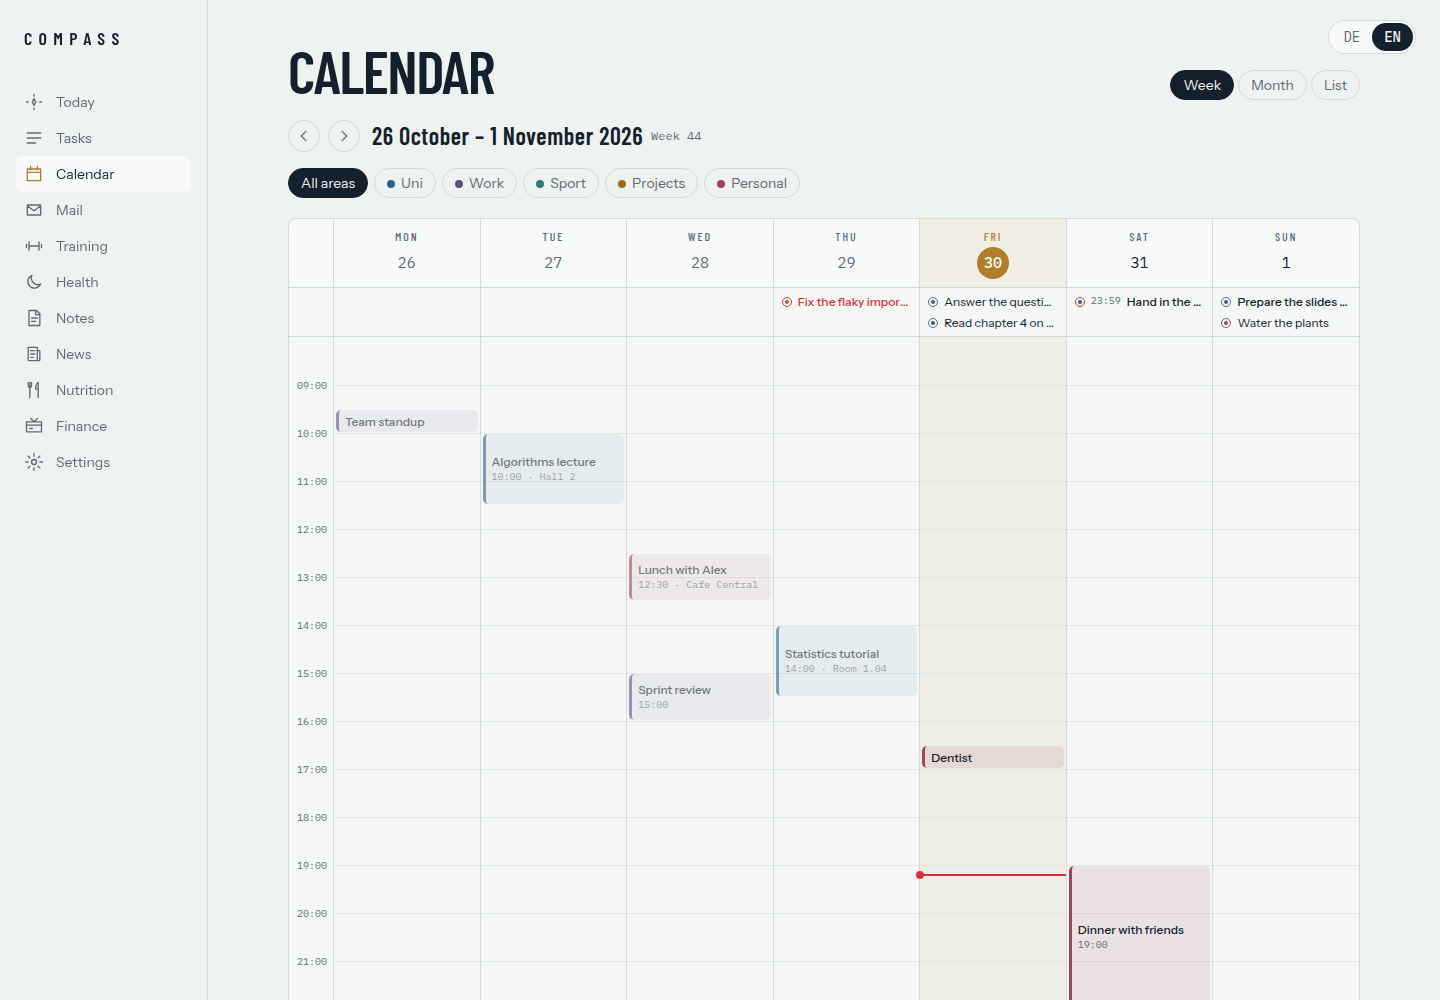
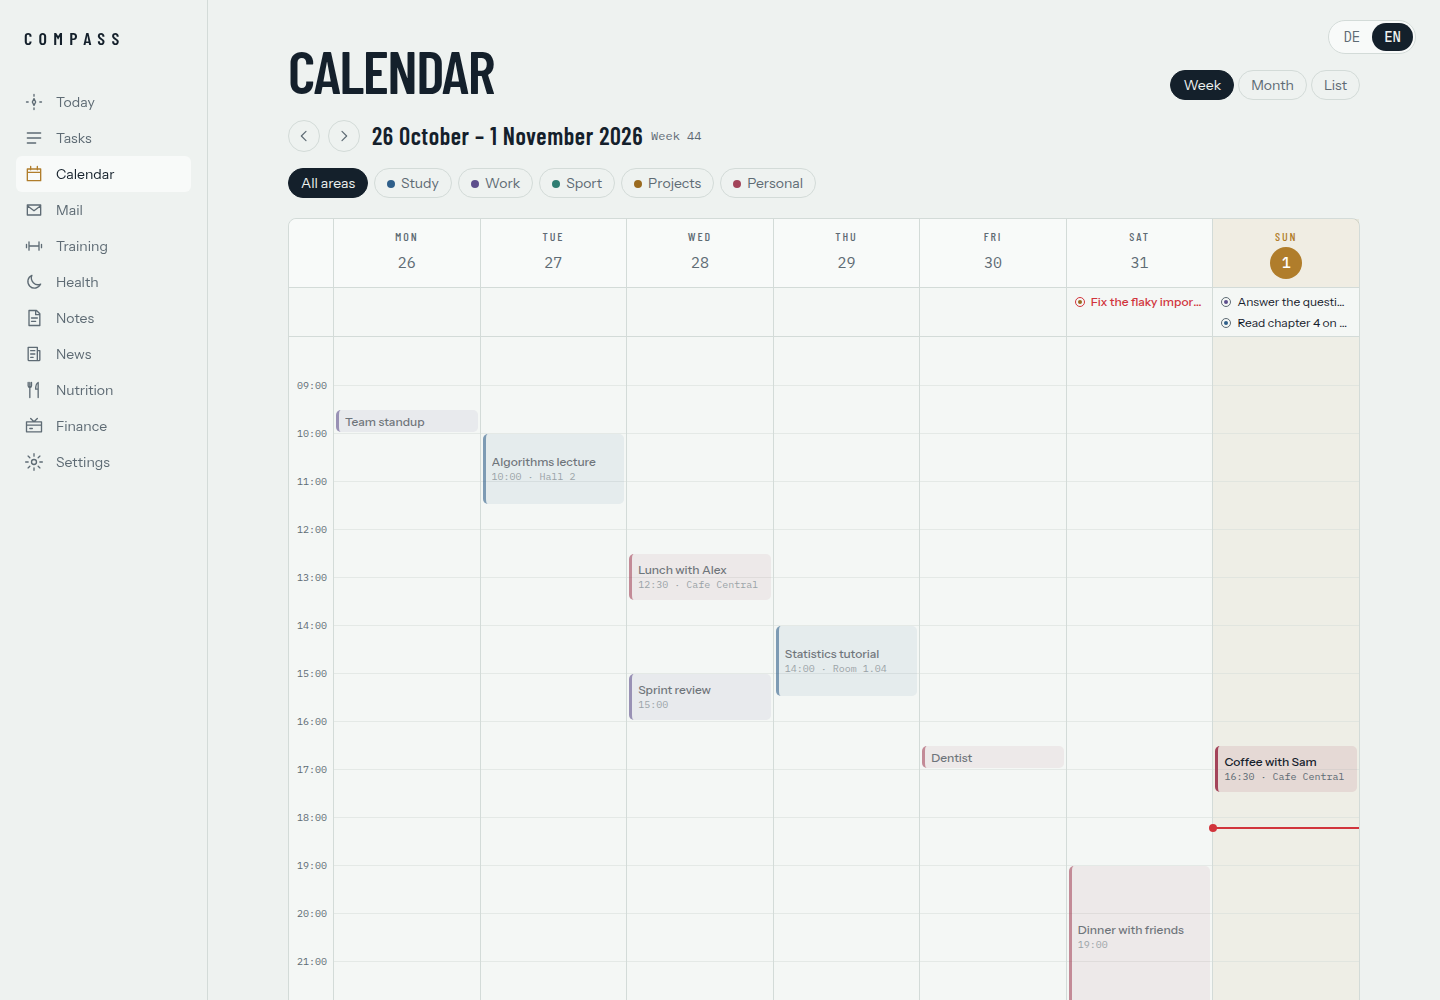
document the published images, reject cross-site API requests and add a CSP in Caddy, and drop personal leftovers

diff --git a/frontend/vite.config.ts b/frontend/vite.config.ts
@@ -46,7 +46,7 @@ export default defineConfig({
             ],
           },
         },
-        shortcuts: [{ name: 'Neue Aufgabe', url: '/?neu=1' }],
+        shortcuts: [{ name: 'New task', url: '/?new=1' }],
       },
       workbox: {
         // Offline only the app shell; data always comes from the API.

diff --git a/backend/tests/test_training.py b/backend/tests/test_training.py
@@ -30,9 +30,9 @@ def recent(days_ago: int, hhmm: str = "18:00") -> str:
 
 
 SAMPLE = export(
-    row("2025-09-04 20:01:06", "Push A", "Supine Press", 1, "110", 10),
-    row("2025-09-04 20:01:06", "Push A", "Supine Press", 2, "105", 9),
-    row("2025-09-04 20:01:06", "Push A", "Trizeps Dips", 1, "", 12),
+    row("2025-09-04 20:15:30", "Push A", "Supine Press", 1, "60", 10),
+    row("2025-09-04 20:15:30", "Push A", "Supine Press", 2, "55", 9),
+    row("2025-09-04 20:15:30", "Push A", "Trizeps Dips", 1, "", 12),
     row("2025-09-06 10:30:00", "Pull", "Latzug mit engem Griff", 1, "70", 10),
 )
 
@@ -55,7 +55,7 @@ def test_import_creates_sessions_sets_and_exercises(session):
     }
     push = session.scalar(select(TrainingSession).where(TrainingSession.workout_name == "Push A"))
     # Local time without zone in the file; stored as UTC (CEST is UTC+2).
-    assert push.started_at == datetime(2025, 9, 4, 18, 1, 6, tzinfo=ZoneInfo("UTC"))
+    assert push.started_at == datetime(2025, 9, 4, 18, 15, 30, tzinfo=ZoneInfo("UTC"))
 
     dips = session.scalar(select(Exercise).where(Exercise.name == "Trizeps Dips"))
     assert dips.bodyweight is True
@@ -76,14 +76,14 @@ def test_import_is_idempotent_and_updates_changed_sets(session):
     assert count(session, ExerciseSet) == 4
 
     corrected = export(
-        row("2025-09-04 20:01:06", "Push A", "Supine Press", 2, "107.5", 8),
+        row("2025-09-04 20:15:30", "Push A", "Supine Press", 2, "57.5", 8),
         row("2025-09-08 19:00:00", "Leg", "Beinstrecken", 1, "60", 12),
     )
     stats = workouts.import_csv(session, corrected)
     assert stats["sets_updated"] == 1
     assert stats["sets_created"] == 1
     assert stats["sessions_created"] == 1
-    second = session.scalar(select(ExerciseSet).where(ExerciseSet.weight_kg == Decimal("107.5")))
+    second = session.scalar(select(ExerciseSet).where(ExerciseSet.weight_kg == Decimal("57.5")))
     assert second.reps == 8
 
 

diff --git a/backend/tests/test_mail.py b/backend/tests/test_mail.py
@@ -24,7 +24,7 @@ INTERNALDATE = imaplib.Time2Internaldate(datetime.now(UTC) - timedelta(days=1)).
 
 def raw_mail(
     subject="Termin Besprechung",
-    sender="Prof. Müller <mueller@uni-stuttgart.de>",
+    sender="Prof. Müller <mueller@uni.example>",
     body="Hallo, können Sie bis Freitag zusagen?",
     message_id=None,
     html=False,
@@ -327,7 +327,7 @@ def test_overview_task_and_dismiss(client, session, accounts):
     task = client.post(f"/api/mail/{first.id}/task").json()
     assert task["title"] == "Termin bei Prof. Müller bis Freitag zusagen"
     assert task["source"] == "email"
-    assert "Prof. Müller <mueller@uni-stuttgart.de>" in task["notes"]
+    assert "Prof. Müller <mueller@uni.example>" in task["notes"]
     assert task["area"]["slug"] == "study"  # uni mails go to their area
     again = client.post(f"/api/mail/{first.id}/task").json()
     assert again["id"] == task["id"]
@@ -393,7 +393,7 @@ def test_local_triage_runner(session, accounts, monkeypatch):
                     "folder": "INBOX",
                     "uidvalidity": 7,
                     "uid": 1,
-                    "sender": "Prof. Müller <mueller@uni-stuttgart.de>",
+                    "sender": "Prof. Müller <mueller@uni.example>",
                     "subject": "Termin Besprechung",
                     "received_at": "2026-10-19T07:30:00Z",
                 },

diff --git a/backend/tests/test_mcp_oauth.py b/backend/tests/test_mcp_oauth.py
@@ -11,7 +11,7 @@ from fastapi.testclient import TestClient
 from app.config import get_settings
 from app.mcp import db as mcp_db
 from app.mcp.app import app
-from app.mcp.login import reset_failures
+from app.mcp.login import MAX_FAILURES_TOTAL, reset_failures
 
 BASE = "http://localhost:8001"
 RESOURCE = f"{BASE}/mcp"
@@ -162,6 +162,17 @@ def test_wrong_password_and_lockout(http):
     for _ in range(5):
         assert login(http, request_id, password="wrong").status_code == 401
     # Locked now, even with the right password.
+    assert login(http, request_id).status_code == 429
+
+
+def test_total_failures_lock_out_every_address(http, monkeypatch):
+    # A new address on every try, so the limit per address never applies.
+    addresses = iter(range(MAX_FAILURES_TOTAL + 1))
+    monkeypatch.setattr("app.mcp.login._client_ip", lambda _: f"203.0.113.{next(addresses)}")
+    client_id = register(http)
+    request_id = start_authorization(http, client_id, pkce()[1])
+    for _ in range(MAX_FAILURES_TOTAL):
+        assert login(http, request_id, password="wrong").status_code == 401
     assert login(http, request_id).status_code == 429
 
 

diff --git a/docs/deploy.md b/docs/deploy.md
@@ -2,7 +2,8 @@
 
 Compass is meant to run on a small server inside a private network (a VPN such as Tailscale, Headscale or
 WireGuard). CI builds the images and pushes them to GHCR. The server only pulls the images, it never
-builds them.
+builds them. To try Compass on your own machine first, the [Setup in the README](../README.md#setup) is
+enough.
 
 ```
 GitHub Actions --push--> ghcr.io/<owner>/compass-{api,web}
@@ -32,7 +33,27 @@ MCP. TLS ends at a reverse proxy in front of it, which you already run or set up
 You need Docker Engine with the compose plugin, `git` and `make`. When idle, the stack uses a few hundred
 MB of RAM.
 
-### Repository (read-only deploy key)
+### Repository and images
+
+The server needs a clone of the repository and the images. Choose where they come from:
+
+- **Published images:** the simplest way. Clone this repository and set
+  `COMPASS_REGISTRY=ghcr.io/maximilianrau04` below. You need no GitHub account or registry login.
+- **Your own fork:** if you change the code. Fork the repository, enable Actions in the fork and push to
+  its `main`. CI then builds the images and pushes them to `ghcr.io/<owner>`, where `<owner>` is your
+  GitHub user or organisation in lowercase.
+
+Automatic updates (see [Updating](#updating)) deploy every commit on `main` of the repository you cloned.
+
+```bash
+sudo mkdir -p /opt/compass && sudo chown "$USER": /opt/compass
+git clone https://github.com/MaximilianRau04/Compass.git /opt/compass    # or your fork
+```
+
+### Private fork only: deploy key and registry login
+
+A public repository and public images need neither of these. For a private fork, clone it with a
+read-only deploy key:
 
 ```bash
 ssh-keygen -t ed25519 -f ~/.ssh/compass_deploy -N "" -C "compass deploy key"
@@ -54,9 +75,7 @@ sudo mkdir -p /opt/compass && sudo chown "$USER": /opt/compass
 git clone github-compass:<owner>/Compass.git /opt/compass
 ```
 
-### Registry login
-
-Create a classic personal access token with **only** the `read:packages` scope:
+For the registry, create a classic personal access token with **only** the `read:packages` scope:
 <https://github.com/settings/tokens/new?scopes=read:packages&description=compass-server>
 
 ```bash
@@ -85,7 +104,7 @@ Set these values in `.env`. The IMAP entries can stay empty for now.
 | `POSTGRES_PASSWORD` | output of `openssl rand -base64 32 \| tr -d '/+='` |
 | `COMPASS_BASIC_AUTH_USER` | your login name |
 | `COMPASS_BASIC_AUTH_HASH` | output of `make password-hash` |
-| `COMPASS_REGISTRY` | `ghcr.io/<owner>` in lowercase, where CI pushes the images |
+| `COMPASS_REGISTRY` | `ghcr.io/maximilianrau04` for the published images, or `ghcr.io/<owner>` in lowercase for your fork |
 | `COMPASS_LANGUAGE` | `en` (default) or `de`: language of push notifications, the weekly review, mail summaries and the MCP prompts |
 | `TIMEZONE` | your time zone, default `Europe/Berlin` |
 

diff --git a/README.md b/README.md
@@ -100,6 +100,9 @@ shows which sources are set up. Both can be changed later under Settings. The ot
 remaining options are in [.env.example](.env.example): copy what you need into `.env`, and `make up` again
 applies it.
 
+`make up` publishes three ports on localhost. If one is already in use, change it in `.env`: 8080 with
+`COMPASS_HTTP_PORT`, 8081 with `COMPASS_MCP_HTTP_PORT` and Postgres on 5432 with `POSTGRES_PORT`.
+
 ## Development
 
 ```bash
